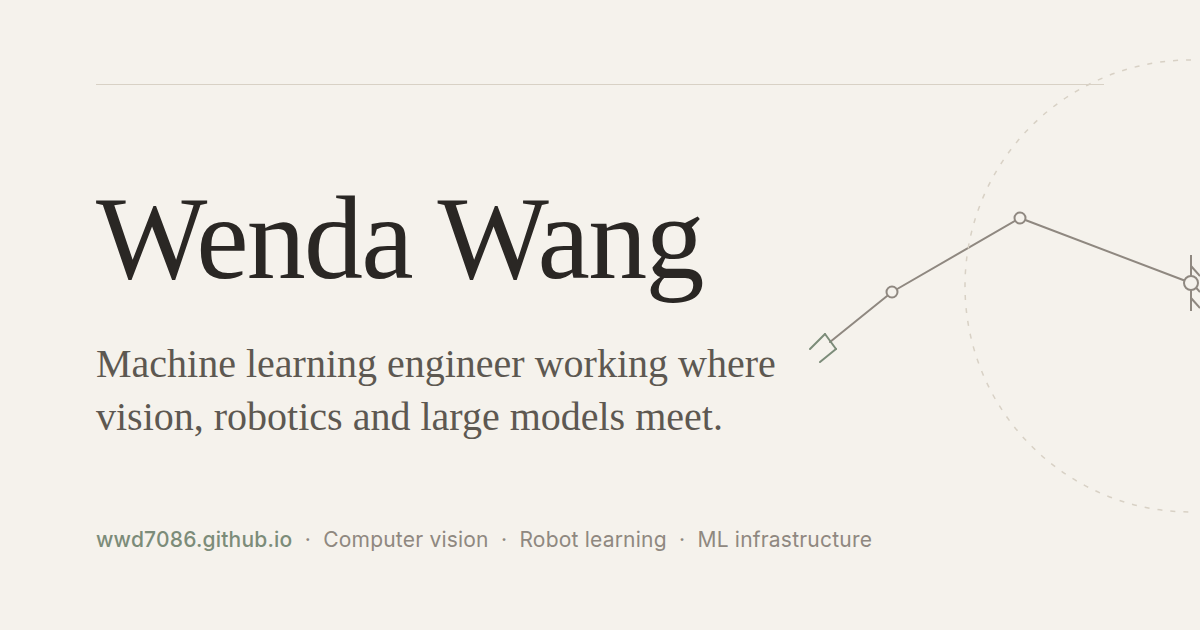
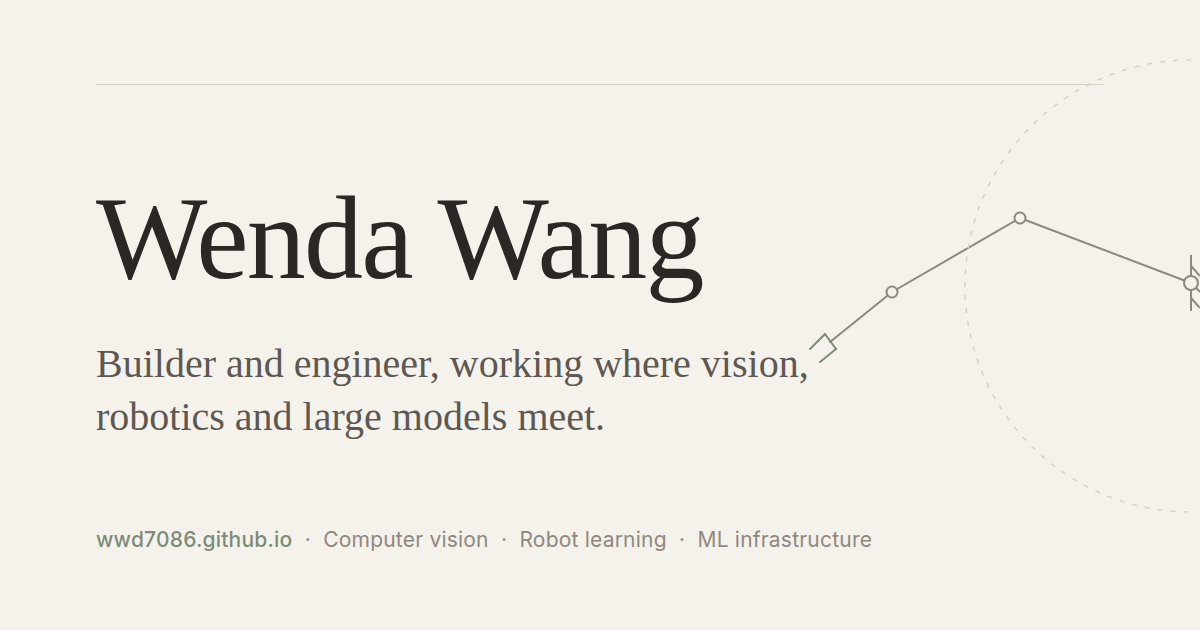
Hero reads 'Builder and engineer'; employer moves out of the lede
The lede now describes the person, not the job: no title, no Elorian
(which keeps its billing in the Now section). About trimmed to avoid
repeating the new opener; meta descriptions, og tags, JSON-LD and the
social card re-rendered to match.

Claude-Session: https://claude.ai/code/session_01CFaaYqqMaLBZ8znUu2PuZ7

Changed region(s): [[0.0617, 0.5429, 0.6783, 0.6937]]

diff --git a/index.html b/index.html
@@ -4,7 +4,7 @@
   <meta charset="utf-8">
   <meta name="viewport" content="width=device-width, initial-scale=1">
   <title>Wenda Wang</title>
-  <meta name="description" content="Wenda Wang — machine learning engineer working where vision, robotics and large models meet. Member of Technical Staff at Elorian; co-founder of Noble Machines; formerly Staff ML Engineer at Apple.">
+  <meta name="description" content="Wenda Wang — builder and engineer working where vision, robotics and large models meet. Member of Technical Staff at Elorian; co-founder of Noble Machines; formerly Staff ML Engineer at Apple.">
   <meta name="author" content="Wenda Wang">
   <meta name="color-scheme" content="light dark">
   <meta name="theme-color" content="#f5f2ec" media="(prefers-color-scheme: light)">
@@ -12,12 +12,12 @@
 
   <meta property="og:type" content="profile">
   <meta property="og:title" content="Wenda Wang">
-  <meta property="og:description" content="Machine learning engineer working where vision, robotics and large models meet.">
+  <meta property="og:description" content="Builder and engineer, working where vision, robotics and large models meet.">
   <meta property="og:url" content="https://wwd7086.github.io/">
   <meta property="og:image" content="https://wwd7086.github.io/og/card.png">
   <meta property="og:image:width" content="1200">
   <meta property="og:image:height" content="630">
-  <meta property="og:image:alt" content="Wenda Wang — machine learning engineer working where vision, robotics and large models meet. A hairline drawing of a robot arm reaches in from the right.">
+  <meta property="og:image:alt" content="Wenda Wang — builder and engineer, working where vision, robotics and large models meet. A hairline drawing of a robot arm reaches in from the right.">
   <meta name="twitter:card" content="summary_large_image">
   <meta name="twitter:creator" content="@wwd7086">
 
@@ -35,6 +35,7 @@
     "name": "Wenda Wang",
     "url": "https://wwd7086.github.io/",
     "image": "https://wwd7086.github.io/og/card.png",
+    "description": "Builder and engineer, working where vision, robotics and large models meet.",
     "jobTitle": "Member of Technical Staff",
     "worksFor": { "@type": "Organization", "name": "Elorian", "url": "https://elorian.ai" },
     "alumniOf": { "@type": "CollegeOrUniversity", "name": "Carnegie Mellon University" },
@@ -84,9 +85,7 @@
     <div class="hero">
       <h1>Wenda Wang</h1>
       <p class="lede">
-        Machine learning engineer working where vision, robotics and large models meet.
-        Currently Member of Technical Staff at <a href="https://elorian.ai" rel="noopener">Elorian</a>,
-        where I lead the robotics vertical.
+        Builder and engineer, working where vision, robotics and large models meet.
       </p>
       <p class="kicker">
         <span>Computer vision</span>
@@ -103,8 +102,8 @@
         at Noble Machines, and now visual reasoning models for robots at Elorian.
       </p>
       <p>
-        I think of myself as an engineer and builder before anything else. The work I am proudest of
-        is the kind you can point at — a model that shipped, a robot that walks.
+        The work I am proudest of is the kind you can point at — a model that shipped, a robot
+        that walks.
       </p>
     </section>
 
